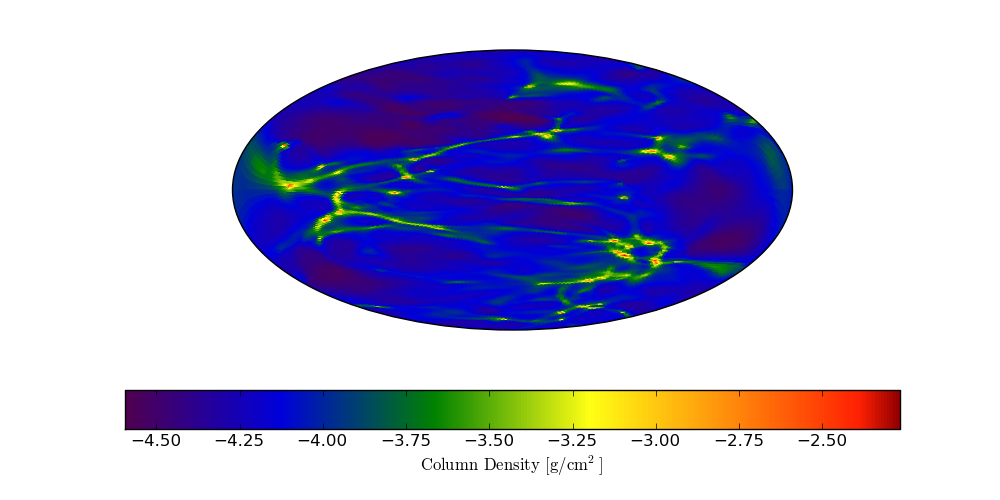
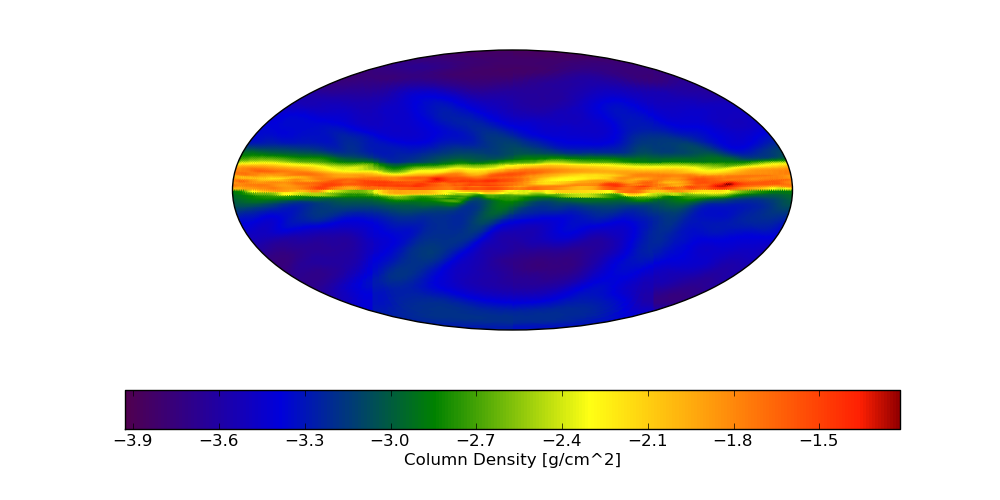
Updating the python and images

diff --git a/examples/all_sky_col_dens.py b/examples/all_sky_col_dens.py
@@ -1,8 +1,7 @@
 from yt.mods import *
 import yt.visualization.volume_rendering.camera as camera
 
-pf = load("RedshiftOutput0010.dir/RedshiftOutput0010")
-cam = camera.HEALpixCamera([0.5, 0.5, 0.5], 50./pf['mpc'], 
-                           nside = 64, pf = pf,
-                           log_fields = [False])
-bitmap = cam.snapshot("allsky.png")
+pf = load("JHK-DD0030/galaxy0030")
+image = camera.allsky_projection(pf, [0.5,0.5,0.5], 100.0/pf['kpc'],
+                                 64, "Density")
+camera.plot_allsky_healpix(image, 64, "allsky.png", "Column Density [g/cm^2]")

diff --git a/examples/density_projection_halos.py b/examples/density_projection_halos.py
@@ -1,10 +1,8 @@
 from yt.mods import *
 pf = load("RD0005/RedshiftOutput0005")
-# Let's center at the center of the box
-pc = PlotCollection(pf, [0.5,0.5,0.5])
 # Project Density along the x axis...
-p = pc.add_projection("Density", 'x')
+p = ProjectionPlot(pf, "x", "Density")
 halos = HaloFinder(pf)
-p.modify["hop_circles"](halos)
-p.modify["hop_particles"](halos, 10) # Max of 10 halos
-pc.save()
+p.annotate_hop_circles(halos)
+p.annotate_hop_particles(halos, 10) # Max of 10 halos
+p.save()

diff --git a/examples/phase.py b/examples/phase.py
@@ -1,7 +1,7 @@
 import time
 from yt.mods import *
-pf = load("JHK-DD0030/galaxy0030")
-pc = PlotCollection(pf, [0.5, 0.5, 0.5])
-pc.add_phase_sphere(1.0, '1', ["Density", "Temperature", "CellMassMsun"],
+pf = load("GalaxyClusterMerger/fiducial_1to3_b0.273d_hdf5_plt_cnt_0175")
+pc = PlotCollection(pf, "c")
+pc.add_phase_sphere(10.0, 'mpc', ["Density", "Temperature", "CellMassMsun"],
         weight=None)
 pc.save()

diff --git a/examples/off_axis_slice.py b/examples/off_axis_slice.py
@@ -1,8 +1,6 @@
 from yt.mods import *
-pf = load("DD0053/DD0053")
+pf = load("DD0087/DD0087")
 sp = pf.h.sphere('max', (100.0,'au'))
 L = sp.quantities["AngularMomentumVector"]()
-pc = PlotCollection(pf)
-pc.add_cutting_plane("Density", L)
-pc.set_width(1000, 'au')
-pc.save()
+off = OffAxisSlicePlot(pf, L, "Density", center="max", width=(1000, "au"))
+off.save()

diff --git a/examples/iso_vol.py b/examples/iso_vol.py
@@ -12,4 +12,4 @@ cam = pf.h.camera([0.5, 0.5, 0.5], # center
                   125.0/pf['kpc'],   # FOV
                   (512, 512),      # resolution
                   tf)              # transfer function
-cam.snapshot("image.png", 4.0) # clip by 4.0 * std()
+cam.snapshot("image.png", clip_ratio=4.0) # clip by 4.0 * std()

diff --git a/examples/density_projection.py b/examples/density_projection.py
@@ -1,7 +1,4 @@
 from yt.mods import *
 pf = load("RD0005/RedshiftOutput0005")
-# Let's center at the center of the box
-pc = PlotCollection(pf, [0.5,0.5,0.5])
 # Project Density along the x axis...
-p = pc.add_projection("Density", 'x')
-pc.save()
+ProjectionPlot(pf, "x", "Density").save()
